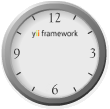
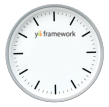
new version of the clock

diff --git a/handsGen-seiko.php b/handsGen-seiko.php
@@ -1,0 +1,241 @@
+n<?php
+  //
+  // 短針、長針、秒針の画像のジェネレータ
+  // $Id$
+  //
+$scale = 12;
+
+// 小盤上の定義 ----------------------------------------------------------
+$sBanWidth = 142 * $scale; // display 上で142mm
+$sBanHeight = 142 * $scale;
+// 小盤の生成
+$sBan = ImageCreateTrueColor($sBanWidth, $sBanHeight);
+//ImageAntiAlias($sBan, true);
+ImageAlphaBlending($sBan, true);
+
+// 針の基本パラメータ。設計書を参照。
+$w1 = 2 * $scale; // 長針幅
+$w2 = 3.2 * $scale; // 短針幅
+$w3 = 1.2 * $scale; // 秒針幅
+$l1 = 54 * $scale; // 秒針長
+$l5 = 54 * $scale; // 長針長
+$l2 = 9 * $scale; // 長針、短針オフセット
+$l3 = 34 * $scale; // 短針長
+$l4 = 14 * $scale; // 秒針オフセット
+$kx = 1.2 * $scale; // 影オフセットx
+$ky = -1.2 * $scale; // 影オフセットy
+$kbx = 2.0 * $scale; // 秒針影オフセットx
+$kby = -2.0 * $scale; // 秒針影オフセットy
+
+$kage = array($kx, $ky); // 影ベクトル
+$kageb = array($kbx, $kby); // 秒針影ベクトル
+
+// 小円のパラメータ(8角形で代用)
+$r1 = 3 * $scale;
+
+// 長針のデータ
+$chouValue = array(-$w1/2, $l5,
+		   $w1/2, $l5,
+		   $w1/2, -$l2,
+		   -$w1/2, -$l2);
+// 短針のデータ
+$tanValue = array(-$w2/2, $l3,
+		   $w2/2, $l3,
+		   $w2/2, -$l2,
+		   -$w2/2, -$l2);
+// 秒針のデータ
+$byouValue = array(-$w3/2, $l1,
+		   $w3/2, $l1,
+		   $w3/2, -$l4,
+		   -$w3/2, -$l4);
+// 円のデータ
+$sqrt = 1.41421356;
+$enValue = array(0, $r1,
+		 $r1/$sqrt, $r1/$sqrt,
+		 $r1, 0,
+		 $r1/$sqrt, -$r1/$sqrt,
+		 0, -$r1,
+		 -$r1/$sqrt, -$r1/$sqrt,
+		 -$r1, 0,
+		 -$r1/$sqrt, $r1/$sqrt
+		 );
+// 色の定義 ---------------------------------------------------------------
+$black = ImageColorAllocate($sBan, 0x00, 0x00, 0x00);
+$gray1 = ImageColorAllocate($sBan, 0x11, 0x11, 0x11);
+$gray2 = ImageColorAllocate($sBan, 0x22, 0x22, 0x22);
+$gray3 = ImageColorAllocate($sBan, 0x33, 0x33, 0x33);
+$gray4 = ImageColorAllocate($sBan, 0x44, 0x44, 0x44);
+$gray5 = ImageColorAllocate($sBan, 0x55, 0x55, 0x55);
+$gray6 = ImageColorAllocate($sBan, 0x66, 0x66, 0x66);
+$gray7 = ImageColorAllocate($sBan, 0x77, 0x77, 0x77);
+$gray8 = ImageColorAllocate($sBan, 0x88, 0x88, 0x88);
+$gray9 = ImageColorAllocate($sBan, 0x99, 0x99, 0x99);
+$graya = ImageColorAllocate($sBan, 0xaa, 0xaa, 0xaa);
+$grayb = ImageColorAllocate($sBan, 0xbb, 0xbb, 0xbb);
+$white = ImageColorAllocate($sBan, 0xff, 0xff, 0xff);
+
+$sBack = ImageColorAllocate($sBan, 0xff, 0xff, 0xff);
+ImageColorTransparent($sBan, $sBack);
+// 針の色
+$hariColor = $gray4;
+$kageColor = $grayb;
+
+// 大盤上の定義 ----------------------------------------------------------
+$width = 104;
+$height = 104;
+
+$dBanWidth = $width * 60; // 横に60枚並ぶ
+$dBanHeight = $height * 3; // 縦に3枚並ぶ
+// 大盤の生成
+$dBan = ImageCreateTrueColor($dBanWidth, $dBanHeight);
+//ImageAntiAlias($dBan, true);
+ImageAlphaBlending($dBan, true);
+
+// 大盤の初期化、背景を透明色で塗りつぶす
+$dBack = ImageColorAllocate($dBan, 0xff, 0xff, 0xff);
+ImageColorTransparent($dBan, $dBack);
+ImageFilledRectangle($dBan, 0,0, $dBanWidth, $dBanHeight, $dBack);
+
+
+// 実行 --------------------------------------------------------------------
+// 横に60枚
+for ($i = 0; $i < 60; $i++) {
+  // 進捗率表示
+  printf("%02d%%\n".chr(0x1b).'M', $i/60*100);
+
+  // 角度
+  $d = $i * 6;
+
+  // 短針の描画
+  // 小盤の初期化、背景を透明色で塗りつぶす
+  ImageFilledRectangle($sBan, 0,0, $sBanWidth, $sBanHeight, $sBack);
+  // 影の描画(逆回転した影ベクトルを用いて針をシフトし、正回転させて影を描画)
+  ImagefilledPolygon($sBan, trans4(rot4(kshift4($tanValue, rot1($kageb, -$d)), $d)), 4, $kageColor);
+  // ImageFilter($sBan, IMG_FILTER_GAUSSIAN_BLUR, 1);
+  // ImageFilger($sBan, IMG_FILTER_GAUSSIAN_BLUR, 1);
+  // ImageFilger($sBan, IMG_FILTER_GAUSSIAN_BLUR, 1);
+  // ImageFilger($sBan, IMG_FILTER_GAUSSIAN_BLUR, 1);
+  // ImageFilger($sBan, IMG_FILTER_GAUSSIAN_BLUR, 1);
+  // 短針とセンターの描画(正回転をかけて針を描画)
+  ImagefilledPolygon($sBan, trans4(rot4($tanValue, $d)), 4, $hariColor);
+  ImagefilledPolygon($sBan, trans8($enValue), 8, $hariColor);
+  // ImageFilger($sBan, IMG_FILTER_GAUSSIAN_BLUR, 1);
+  // ImageFilger($sBan, IMG_FILTER_GAUSSIAN_BLUR, 1);
+  // ImageFilger($sBan, IMG_FILTER_GAUSSIAN_BLUR, 1);
+  // 大盤上に縮小コピー
+  ImageCopyResampled($dBan, $sBan, $i*$width, 0, 0, 0, $width, $height, $sBanWidth, $sBanHeight);
+  // デバッグ用に保存
+  // ImagePng($sBan, sprintf("sban-t%02d.png", $i));
+
+
+  // 長針の描画
+  // 小盤の初期化、背景を透明色で塗りつぶす
+  ImageFilledRectangle($sBan, 0,0, $sBanWidth, $sBanHeight, $sBack);
+  // 影の描画(逆回転した影ベクトルを用いて針をシフトし、正回転させて影を描画)
+  ImagefilledPolygon($sBan, trans4(rot4(kshift4($chouValue, rot1($kageb, -$d)), $d)), 4, $kageColor);
+  // ImageFilger($sBan, IMG_FILTER_GAUSSIAN_BLUR, 1);
+  // ImageFilger($sBan, IMG_FILTER_GAUSSIAN_BLUR, 1);
+  // ImageFilger($sBan, IMG_FILTER_GAUSSIAN_BLUR, 1);
+  // ImageFilger($sBan, IMG_FILTER_GAUSSIAN_BLUR, 1);
+  // ImageFilger($sBan, IMG_FILTER_GAUSSIAN_BLUR, 1);
+  // 長針とセンターの描画(正回転をかけて針を描画)
+  ImagefilledPolygon($sBan, trans4(rot4($chouValue, $d)), 4, $hariColor);
+  ImagefilledPolygon($sBan, trans8($enValue), 8, $hariColor);
+  // ImageFilger($sBan, IMG_FILTER_GAUSSIAN_BLUR, 1);
+  // ImageFilger($sBan, IMG_FILTER_GAUSSIAN_BLUR, 1);
+  // ImageFilger($sBan, IMG_FILTER_GAUSSIAN_BLUR, 1);
+  // 大盤上に縮小コピー
+  ImageCopyResampled($dBan, $sBan, $i*$width, $height, 0, 0, $width, $height, $sBanWidth, $sBanHeight);
+  // デバッグ用に保存
+  // ImagePng($sBan, sprintf("sban-c%02d.png", $i));
+
+
+  // 秒針の描画
+  // 小盤の初期化、背景を透明色で塗りつぶす
+  ImageFilledRectangle($sBan, 0,0, $sBanWidth, $sBanHeight, $sBack);
+  // 影の描画(逆回転した影ベクトルを用いて針をシフトし、正回転させて影を描画)
+  ImagefilledPolygon($sBan, trans4(rot4(kshift4($byouValue, rot1($kageb, -$d)), $d)), 4, $kageColor);
+  // ImageFilger($sBan, IMG_FILTER_GAUSSIAN_BLUR, 1);
+  // ImageFilger($sBan, IMG_FILTER_GAUSSIAN_BLUR, 1);
+  // ImageFilger($sBan, IMG_FILTER_GAUSSIAN_BLUR, 1);
+  // ImageFilger($sBan, IMG_FILTER_GAUSSIAN_BLUR, 1);
+  // ImageFilger($sBan, IMG_FILTER_GAUSSIAN_BLUR, 1);
+  // 秒針とセンターの描画(正回転をかけて針を描画)
+  ImagefilledPolygon($sBan, trans4(rot4($byouValue, $d)), 4, $hariColor);
+  ImagefilledPolygon($sBan, trans8($enValue), 8, $hariColor);
+  // ImageFilger($sBan, IMG_FILTER_GAUSSIAN_BLUR, 1);
+  // ImageFilger($sBan, IMG_FILTER_GAUSSIAN_BLUR, 1);
+  // ImageFilger($sBan, IMG_FILTER_GAUSSIAN_BLUR, 1);
+  // 大盤上に縮小コピー
+  ImageCopyResampled($dBan, $sBan, $i*$width, $height*2, 0, 0, $width, $height, $sBanWidth, $sBanHeight);
+  // デバッグ用に保存
+  // ImagePng($sBan, sprintf("sban-b%02d.png", $i));
+}
+
+ImageAlphaBlending($dBan, false);
+ImageSaveAlpha($dBan, true);
+
+ImagePng($dBan, 'analog-clock-hands.png');
+ImagePng($dBan, 'analog-clock-hands~.png');
+
+exit;
+
+// 関数定義 -------------------------------------------------------------------------------------------------
+// 原点中心の座標系からビットマップ座標系への変換
+function transX($x)
+{
+  global $sBanWidth;
+  return $sBanWidth/2 + $x;
+}
+// 原点中心の座標系からビットマップ座標系への変換
+function transY($y)
+{
+  global $sBanHeight;
+  return $sBanHeight/2 - $y;
+}
+
+// 4点からなるポリゴンについて、原点中心の座標系からビットマップ座標系への変換
+function trans4($a)
+{
+  list($x0, $y0, $x1, $y1, $x2, $y2, $x3, $y3) = $a;
+  return array(transX($x0), transY($y0), transX($x1), transY($y1), transX($x2), transY($y2), transX($x3), transY($y3));
+}
+
+// 8点からなるポリゴンについて、原点中心の座標系からビットマップ座標系への変換
+function trans8($a)
+{
+  list($x0, $y0, $x1, $y1, $x2, $y2, $x3, $y3, $x4, $y4, $x5, $y5, $x6, $y6, $x7, $y7) = $a;
+  return array(transX($x0), transY($y0), transX($x1), transY($y1), transX($x2), transY($y2), transX($x3), transY($y3),
+	       transX($x4), transY($y4), transX($x5), transY($y5), transX($x6), transY($y6), transX($x7), transY($y7));
+}
+
+// 4点からなるポリゴンについて、原点中心の座標系において、影のオフセットだけシフト
+function kshift4($a, $k)
+{
+  list($kx, $ky) = $k;
+  list($x0, $y0, $x1, $y1, $x2, $y2, $x3, $y3) = $a;
+  $x0 += $kx; $y0 += $ky;
+  $x1 += $kx; $y1 += $ky;
+  $x2 += $kx; $y2 += $ky;
+  $x3 += $kx; $y3 += $ky;
+  return array($x0, $y0, $x1, $y1, $x2, $y2, $x3, $y3);
+}
+
+// 原点中心座標系において、1点の回転
+function rot1($a, $d)
+{
+  $t = $d / 180 * M_PI;
+  list($x0, $y0) = $a;
+  return array($x0 * cos($t) + $y0 * sin($t), -($x0 * sin($t) - $y0 * cos($t)));
+}
+
+// 原点中心座標系において、4点からなるポリゴンの回転
+function rot4($a, $d)
+{
+  $t = $d / 180 * M_PI;
+  list($x0, $y0, $x1, $y1, $x2, $y2, $x3, $y3) = $a;
+  return array($x0 * cos($t) + $y0 * sin($t), -($x0 * sin($t) - $y0 * cos($t)),
+	       $x1 * cos($t) + $y1 * sin($t), -($x1 * sin($t) - $y1 * cos($t)),
+	       $x2 * cos($t) + $y2 * sin($t), -($x2 * sin($t) - $y2 * cos($t)),
+	       $x3 * cos($t) + $y3 * sin($t), -($x3 * sin($t) - $y3 * cos($t)));
+}
